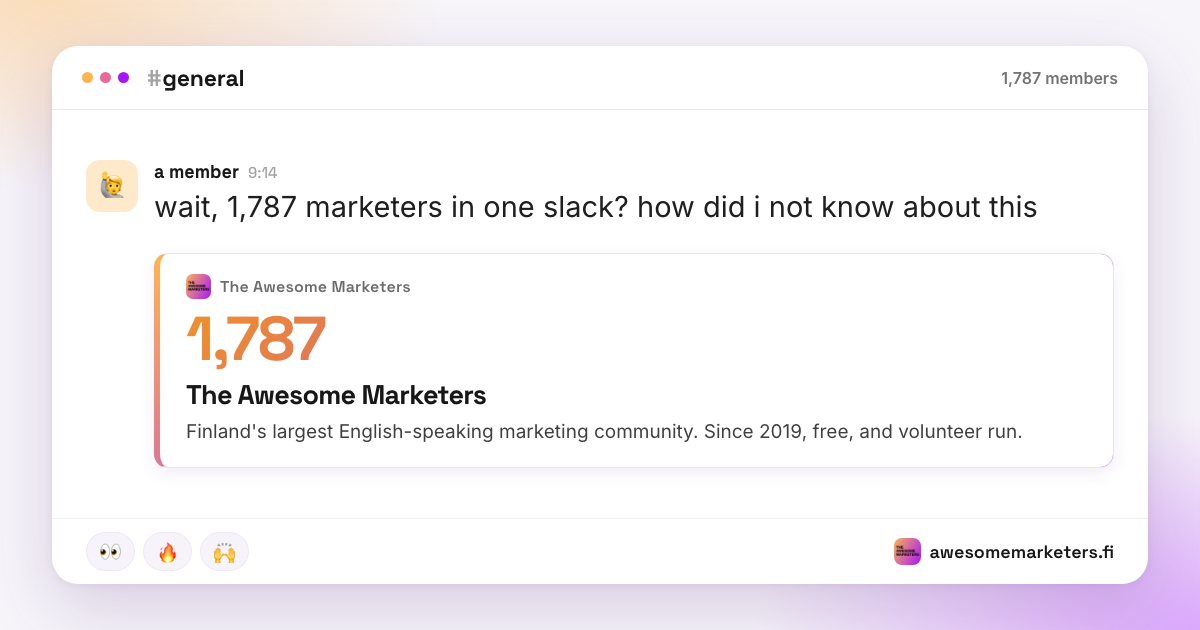
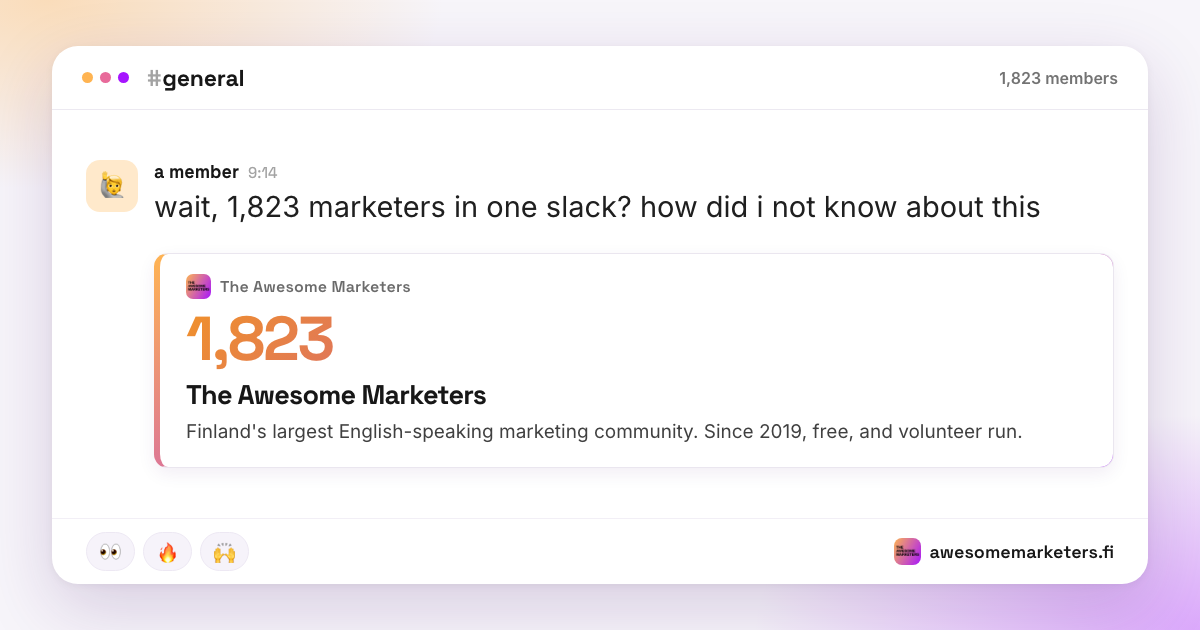
Member count 1,787 -> 1,823 across the site (copy, meta, schema, llms.txt, OG cards)

Changed region(s): [[0.185, 0.3016, 0.8633, 0.3619], [0.185, 0.4825, 0.2775, 0.573], [0.8325, 0.0905, 0.8633, 0.1508]]

diff --git a/marketing-freelancer-finland/index.html b/marketing-freelancer-finland/index.html
@@ -8,7 +8,7 @@
   <link rel="shortcut icon" href="/favicon.ico">
   <meta name="viewport" content="width=device-width, initial-scale=1.0">
   <title>Hire a Marketing Freelancer in Finland | The Awesome Marketers</title>
-  <meta name="description" content="Need a marketing freelancer in Finland? Tell us your brief and we match you with the right person from our 1,787-member community. Free, no fees, no cut.">
+  <meta name="description" content="Need a marketing freelancer in Finland? Tell us your brief and we match you with the right person from our 1,823-member community. Free, no fees, no cut.">
   <meta property="og:title" content="Hire a Marketing Freelancer in Finland | The Awesome Marketers">
   <meta property="og:description" content="Free matching with freelance marketers from Finland's largest marketing community. No fees, no cut.">
   <meta property="og:image" content="https://awesomemarketers.fi/og/marketing-freelancer-finland.png">
@@ -32,7 +32,7 @@
       "@type": "WebPage",
       "name": "Hire a Marketing Freelancer in Finland",
       "url": "https://awesomemarketers.fi/marketing-freelancer-finland/",
-      "description": "Free matching between companies and freelance marketers in Finland. Tell us your brief and we connect you with the right freelancer from a 1,787-member community.",
+      "description": "Free matching between companies and freelance marketers in Finland. Tell us your brief and we connect you with the right freelancer from a 1,823-member community.",
       "inLanguage": "en",
       "isPartOf": {
         "@type": "WebSite",
@@ -53,7 +53,7 @@
         "name": "Finland"
       },
       "serviceType": "Freelancer referral",
-      "description": "Free matching between companies and freelance marketers in Finland from a 1,787-member community.",
+      "description": "Free matching between companies and freelance marketers in Finland from a 1,823-member community.",
       "offers": {
         "@type": "Offer",
         "price": "0",
@@ -68,7 +68,7 @@
           "name": "How do I hire a marketing freelancer in Finland?",
           "acceptedAnswer": {
             "@type": "Answer",
-            "text": "Message Anna Pogrebniak on LinkedIn or email anna@awesomemarketers.fi with what you need: the channel, the scope, your budget, and the working language. She asks The Awesome Marketers community (1,787+ marketers) and shortlists freelancers who actually fit. You then work with the freelancer directly."
+            "text": "Message Anna Pogrebniak on LinkedIn or email anna@awesomemarketers.fi with what you need: the channel, the scope, your budget, and the working language. She asks The Awesome Marketers community (1,823+ marketers) and shortlists freelancers who actually fit. You then work with the freelancer directly."
           }
         },
         {
@@ -201,7 +201,7 @@
     <div class="container">
       <span class="section__tag">Free Matching</span>
       <h1 class="page-hero__title">Find a <span class="gradient-text">marketing freelancer</span> in Finland</h1>
-      <p class="page-hero__desc">Tell us what you need, and we connect you with the right freelancer from Finland's largest marketing community: 1,787+ marketers. Free, no fees, no cut.</p>
+      <p class="page-hero__desc">Tell us what you need, and we connect you with the right freelancer from Finland's largest marketing community: 1,823+ marketers. Free, no fees, no cut.</p>
       <div class="mf-hero-actions">
         <a href="https://www.linkedin.com/in/annapogrebniak/" target="_blank" class="btn btn--primary">DM Anna on LinkedIn →</a>
         <a href="mailto:anna@awesomemarketers.fi?subject=Looking%20for%20a%20marketing%20freelancer" class="btn btn--outline">Email anna@awesomemarketers.fi</a>
@@ -213,7 +213,7 @@
     <div class="mf-section">
 
       <h2>What kind of marketing freelancers are in the community</h2>
-      <p>The Awesome Marketers has been Finland's English-speaking marketing community since 2019. Among its 1,787+ members are freelancers and consultants across every discipline a marketing team buys:</p>
+      <p>The Awesome Marketers has been Finland's English-speaking marketing community since 2019. Among its 1,823+ members are freelancers and consultants across every discipline a marketing team buys:</p>
       <ul class="mf-specs">
         <li>Marketing Strategy</li>
         <li>Growth</li>
@@ -248,13 +248,13 @@
       </div>
 
       <h2>Why through the community</h2>
-      <p>Because reputation beats a portfolio site. We have run this community since 2019, and 1,787+ marketers talk shop here every week: we know who is actually good at what, not just who markets themselves well. Freelancers are vetted by their reputation inside the community, where bad work gets remembered. And our own <a href="/freelance-marketing-consultant-rates-finland/">salary and rate data</a> keeps pricing honest on both sides of the table.</p>
+      <p>Because reputation beats a portfolio site. We have run this community since 2019, and 1,823+ marketers talk shop here every week: we know who is actually good at what, not just who markets themselves well. Freelancers are vetted by their reputation inside the community, where bad work gets remembered. And our own <a href="/freelance-marketing-consultant-rates-finland/">salary and rate data</a> keeps pricing honest on both sides of the table.</p>
 
       <h2>Frequently asked questions</h2>
       <div class="mf-faq">
         <details>
           <summary>How do I hire a marketing freelancer in Finland?</summary>
-          <p>Message Anna Pogrebniak on LinkedIn or email anna@awesomemarketers.fi with what you need: the channel, the scope, your budget, and the working language. She asks The Awesome Marketers community (1,787+ marketers) and shortlists freelancers who actually fit. You then work with the freelancer directly.</p>
+          <p>Message Anna Pogrebniak on LinkedIn or email anna@awesomemarketers.fi with what you need: the channel, the scope, your budget, and the working language. She asks The Awesome Marketers community (1,823+ marketers) and shortlists freelancers who actually fit. You then work with the freelancer directly.</p>
         </details>
         <details>
           <summary>How much does a marketing freelancer cost in Finland?</summary>

diff --git a/index.html b/index.html
@@ -8,9 +8,9 @@
   <link rel="shortcut icon" href="/favicon.ico">
   <meta name="viewport" content="width=device-width, initial-scale=1.0">
   <title>The Awesome Marketers | Finland's Largest Marketing Community</title>
-  <meta name="description" content="Finland's largest English-speaking marketing community: 1,787+ members, free events, salary data, and career tools for marketers in Finland.">
+  <meta name="description" content="Finland's largest English-speaking marketing community: 1,823+ members, free events, salary data, and career tools for marketers in Finland.">
   <meta property="og:title" content="The Awesome Marketers | Finland's Largest Marketing Community">
-  <meta property="og:description" content="Finland's largest international marketing community on Slack. 1,787 members, free events, salary data, and career tools.">
+  <meta property="og:description" content="Finland's largest international marketing community on Slack. 1,823 members, free events, salary data, and career tools.">
   <meta property="og:type" content="website">
   <meta property="og:url" content="https://awesomemarketers.fi">
   <meta property="og:image" content="https://awesomemarketers.fi/og/home.png">
@@ -19,7 +19,7 @@
   <meta name="twitter:card" content="summary_large_image">
   <meta name="twitter:image" content="https://awesomemarketers.fi/og/home.png">
   <meta name="twitter:title" content="The Awesome Marketers | Finland's Largest Marketing Community">
-  <meta name="twitter:description" content="Finland's largest international marketing community on Slack. 1,787 members, free events, and career tools.">
+  <meta name="twitter:description" content="Finland's largest international marketing community on Slack. 1,823 members, free events, and career tools.">
   <link rel="canonical" href="https://awesomemarketers.fi/">
   <link rel="preconnect" href="https://fonts.googleapis.com">
   <link rel="preconnect" href="https://fonts.gstatic.com" crossorigin>
@@ -37,7 +37,7 @@
       "url": "https://awesomemarketers.fi",
       "logo": "https://awesomemarketers.fi/logo.jpg",
       "image": "https://awesomemarketers.fi/og/home.png",
-      "description": "Finland's largest English-speaking marketing community. Founded in Helsinki in 2019, with 1,787+ members sharing jobs, advice, salary data, events, and career support for marketers in Finland.",
+      "description": "Finland's largest English-speaking marketing community. Founded in Helsinki in 2019, with 1,823+ members sharing jobs, advice, salary data, events, and career support for marketers in Finland.",
       "foundingDate": "2019",
       "foundingLocation": {
         "@type": "Place",
@@ -236,7 +236,7 @@
           <img src="marketers/image21.jpg" alt="Awesome Marketers community member" class="social-proof__avatar">
           <img src="marketers/image26.jpg" alt="Awesome Marketers community member" class="social-proof__avatar">
           <img src="marketers/image27.jpg" alt="Awesome Marketers community member" class="social-proof__avatar">
-          <span class="social-proof__count">+1,787</span>
+          <span class="social-proof__count">+1,823</span>
         </div>
         <p class="social-proof__label" id="rotatingLabel">marketers on Slack</p>
       </div>

diff --git a/firstjob/index.html b/firstjob/index.html
@@ -8,9 +8,9 @@
   <link rel="shortcut icon" href="/favicon.ico">
   <meta name="viewport" content="width=device-width, initial-scale=1.0">
   <title>Find Your First Marketing Job in Finland | The Awesome Marketers</title>
-  <meta name="description" content="A practical guide to landing your first marketing job in Finland: job boards, networking, salary data, unions, and advice from a 1,787-member community.">
+  <meta name="description" content="A practical guide to landing your first marketing job in Finland: job boards, networking, salary data, unions, and advice from a 1,823-member community.">
   <meta property="og:title" content="Find Your First Marketing Job in Finland | The Awesome Marketers">
-  <meta property="og:description" content="A practical guide to landing your first marketing job in Finland: job boards, networking, salary data, unions, and advice from a 1,787-member community.">
+  <meta property="og:description" content="A practical guide to landing your first marketing job in Finland: job boards, networking, salary data, unions, and advice from a 1,823-member community.">
   <meta property="og:image" content="https://awesomemarketers.fi/og/firstjob.png">
   <meta property="og:image:width" content="1200">
   <meta property="og:image:height" content="630">
@@ -32,7 +32,7 @@
   "url": "https://awesomemarketers.fi",
   "logo": "https://awesomemarketers.fi/logo.jpg",
   "image": "https://awesomemarketers.fi/og/firstjob.png",
-  "description": "Finland's largest English-speaking marketing community. Founded in Helsinki in 2019, with 1,787+ members sharing jobs, advice, salary data, events, and career support for marketers in Finland.",
+  "description": "Finland's largest English-speaking marketing community. Founded in Helsinki in 2019, with 1,823+ members sharing jobs, advice, salary data, events, and career support for marketers in Finland.",
   "foundingDate": "2019",
   "foundingLocation": {
     "@type": "Place",
@@ -55,7 +55,7 @@
   "@context": "https://schema.org",
   "@type": "Article",
   "headline": "Find Your First Marketing Job in Finland",
-  "description": "A practical guide to landing your first marketing job in Finland: job boards, networking, salary data, unions, and advice from a 1,787-member community.",
+  "description": "A practical guide to landing your first marketing job in Finland: job boards, networking, salary data, unions, and advice from a 1,823-member community.",
   "dateModified": "2026-07-23",
   "inLanguage": "en",
   "mainEntityOfPage": "https://awesomemarketers.fi/firstjob/",

diff --git a/people/index.html b/people/index.html
@@ -32,7 +32,7 @@
   "url": "https://awesomemarketers.fi",
   "logo": "https://awesomemarketers.fi/logo.jpg",
   "image": "https://awesomemarketers.fi/og/people.png",
-  "description": "Finland's largest English-speaking marketing community. Founded in Helsinki in 2019, with 1,787+ members sharing jobs, advice, salary data, events, and career support for marketers in Finland.",
+  "description": "Finland's largest English-speaking marketing community. Founded in Helsinki in 2019, with 1,823+ members sharing jobs, advice, salary data, events, and career support for marketers in Finland.",
   "foundingDate": "2019",
   "foundingLocation": {
     "@type": "Place",
@@ -243,7 +243,7 @@
     <div class="container">
       <div class="about-text">
         <h2 class="about-text__title">About The Awesome Marketers</h2>
-        <p>The Awesome Marketers is an English-speaking marketing community based in Finland, founded by Anna Pogrebniak in Helsinki in 2019. As of 2026, the community has grown to over 1,787 members. Most are marketers living and working in Finland, and many originally moved here from other countries.</p>
+        <p>The Awesome Marketers is an English-speaking marketing community based in Finland, founded by Anna Pogrebniak in Helsinki in 2019. As of 2026, the community has grown to over 1,823 members. Most are marketers living and working in Finland, and many originally moved here from other countries.</p>
         <p>The community runs on Slack and is organized entirely by volunteers. Members share job openings, ask for advice on campaigns and tools, give feedback on portfolios, and help each other with things like salary negotiation, freelancing, and finding your way in the Finnish job market. The community also runs regular events in Helsinki (afterworks, webinars, meetups) and has held events in Tampere and Oulu.</p>
         <p>Over the years, the community has published two marketing salary reports for Finland (2021 and 2023), built a freelance rate calculator, and put together a guide for landing your first marketing job in Finland. The Slack is open to anyone working in or interested in marketing in Finland.</p>
       </div>

diff --git a/freelance-marketing-consultant-rates-finland/index.html b/freelance-marketing-consultant-rates-finland/index.html
@@ -591,7 +591,7 @@
           <a href="/freelance-calculator/" class="btn btn--primary">Calculate your own rate →</a>
           <a href="/marketing-salary-finland-2026-report/" class="btn btn--outline">See the full salary report →</a>
         </div>
-        <p>Freelancing in Finland? <a href="https://docs.google.com/forms/d/e/1FAIpQLSfyjguXFCgPrUyPbQ4mBCfclsmtTqfpHeGxoVPj0baR7Tj9NA/viewform" target="_blank">Join our community Slack</a>, 1,787+ marketers compare notes on rates, clients, and contracts.</p>
+        <p>Freelancing in Finland? <a href="https://docs.google.com/forms/d/e/1FAIpQLSfyjguXFCgPrUyPbQ4mBCfclsmtTqfpHeGxoVPj0baR7Tj9NA/viewform" target="_blank">Join our community Slack</a>, 1,823+ marketers compare notes on rates, clients, and contracts.</p>
       </div>
 
     </article>

diff --git a/marketing-salaries-finland/index.html b/marketing-salaries-finland/index.html
@@ -32,7 +32,7 @@
   "url": "https://awesomemarketers.fi",
   "logo": "https://awesomemarketers.fi/logo.jpg",
   "image": "https://awesomemarketers.fi/og/marketing-salaries-finland.png",
-  "description": "Finland's largest English-speaking marketing community. Founded in Helsinki in 2019, with 1,787+ members sharing jobs, advice, salary data, events, and career support for marketers in Finland.",
+  "description": "Finland's largest English-speaking marketing community. Founded in Helsinki in 2019, with 1,823+ members sharing jobs, advice, salary data, events, and career support for marketers in Finland.",
   "foundingDate": "2019",
   "foundingLocation": {
     "@type": "Place",

diff --git a/remote-salary-calculator/index.html b/remote-salary-calculator/index.html
@@ -32,7 +32,7 @@
   "url": "https://awesomemarketers.fi",
   "logo": "https://awesomemarketers.fi/logo.jpg",
   "image": "https://awesomemarketers.fi/og/remote-salary-calculator.png",
-  "description": "Finland's largest English-speaking marketing community. Founded in Helsinki in 2019, with 1,787+ members sharing jobs, advice, salary data, events, and career support for marketers in Finland.",
+  "description": "Finland's largest English-speaking marketing community. Founded in Helsinki in 2019, with 1,823+ members sharing jobs, advice, salary data, events, and career support for marketers in Finland.",
   "foundingDate": "2019",
   "foundingLocation": {
     "@type": "Place",

diff --git a/freelance-calculator/index.html b/freelance-calculator/index.html
@@ -32,7 +32,7 @@
   "url": "https://awesomemarketers.fi",
   "logo": "https://awesomemarketers.fi/logo.jpg",
   "image": "https://awesomemarketers.fi/og/freelance-calculator.png",
-  "description": "Finland's largest English-speaking marketing community. Founded in Helsinki in 2019, with 1,787+ members sharing jobs, advice, salary data, events, and career support for marketers in Finland.",
+  "description": "Finland's largest English-speaking marketing community. Founded in Helsinki in 2019, with 1,823+ members sharing jobs, advice, salary data, events, and career support for marketers in Finland.",
   "foundingDate": "2019",
   "foundingLocation": {
     "@type": "Place",

diff --git a/manifesto/index.html b/manifesto/index.html
@@ -32,7 +32,7 @@
   "url": "https://awesomemarketers.fi",
   "logo": "https://awesomemarketers.fi/logo.jpg",
   "image": "https://awesomemarketers.fi/og/manifesto.png",
-  "description": "Finland's largest English-speaking marketing community. Founded in Helsinki in 2019, with 1,787+ members sharing jobs, advice, salary data, events, and career support for marketers in Finland.",
+  "description": "Finland's largest English-speaking marketing community. Founded in Helsinki in 2019, with 1,823+ members sharing jobs, advice, salary data, events, and career support for marketers in Finland.",
   "foundingDate": "2019",
   "foundingLocation": {
     "@type": "Place",

diff --git a/resources/index.html b/resources/index.html
@@ -32,7 +32,7 @@
   "url": "https://awesomemarketers.fi",
   "logo": "https://awesomemarketers.fi/logo.jpg",
   "image": "https://awesomemarketers.fi/og/resources.png",
-  "description": "Finland's largest English-speaking marketing community. Founded in Helsinki in 2019, with 1,787+ members sharing jobs, advice, salary data, events, and career support for marketers in Finland.",
+  "description": "Finland's largest English-speaking marketing community. Founded in Helsinki in 2019, with 1,823+ members sharing jobs, advice, salary data, events, and career support for marketers in Finland.",
   "foundingDate": "2019",
   "foundingLocation": {
     "@type": "Place",

diff --git a/events/index.html b/events/index.html
@@ -473,7 +473,7 @@
   "url": "https://awesomemarketers.fi",
   "logo": "https://awesomemarketers.fi/logo.jpg",
   "image": "https://awesomemarketers.fi/og/events.png",
-  "description": "Finland's largest English-speaking marketing community. Founded in Helsinki in 2019, with 1,787+ members sharing jobs, advice, salary data, events, and career support for marketers in Finland.",
+  "description": "Finland's largest English-speaking marketing community. Founded in Helsinki in 2019, with 1,823+ members sharing jobs, advice, salary data, events, and career support for marketers in Finland.",
   "foundingDate": "2019",
   "foundingLocation": {
     "@type": "Place",

diff --git a/partners/index.html b/partners/index.html
@@ -32,7 +32,7 @@
   "url": "https://awesomemarketers.fi",
   "logo": "https://awesomemarketers.fi/logo.jpg",
   "image": "https://awesomemarketers.fi/og/partners.png",
-  "description": "Finland's largest English-speaking marketing community. Founded in Helsinki in 2019, with 1,787+ members sharing jobs, advice, salary data, events, and career support for marketers in Finland.",
+  "description": "Finland's largest English-speaking marketing community. Founded in Helsinki in 2019, with 1,823+ members sharing jobs, advice, salary data, events, and career support for marketers in Finland.",
   "foundingDate": "2019",
   "foundingLocation": {
     "@type": "Place",
